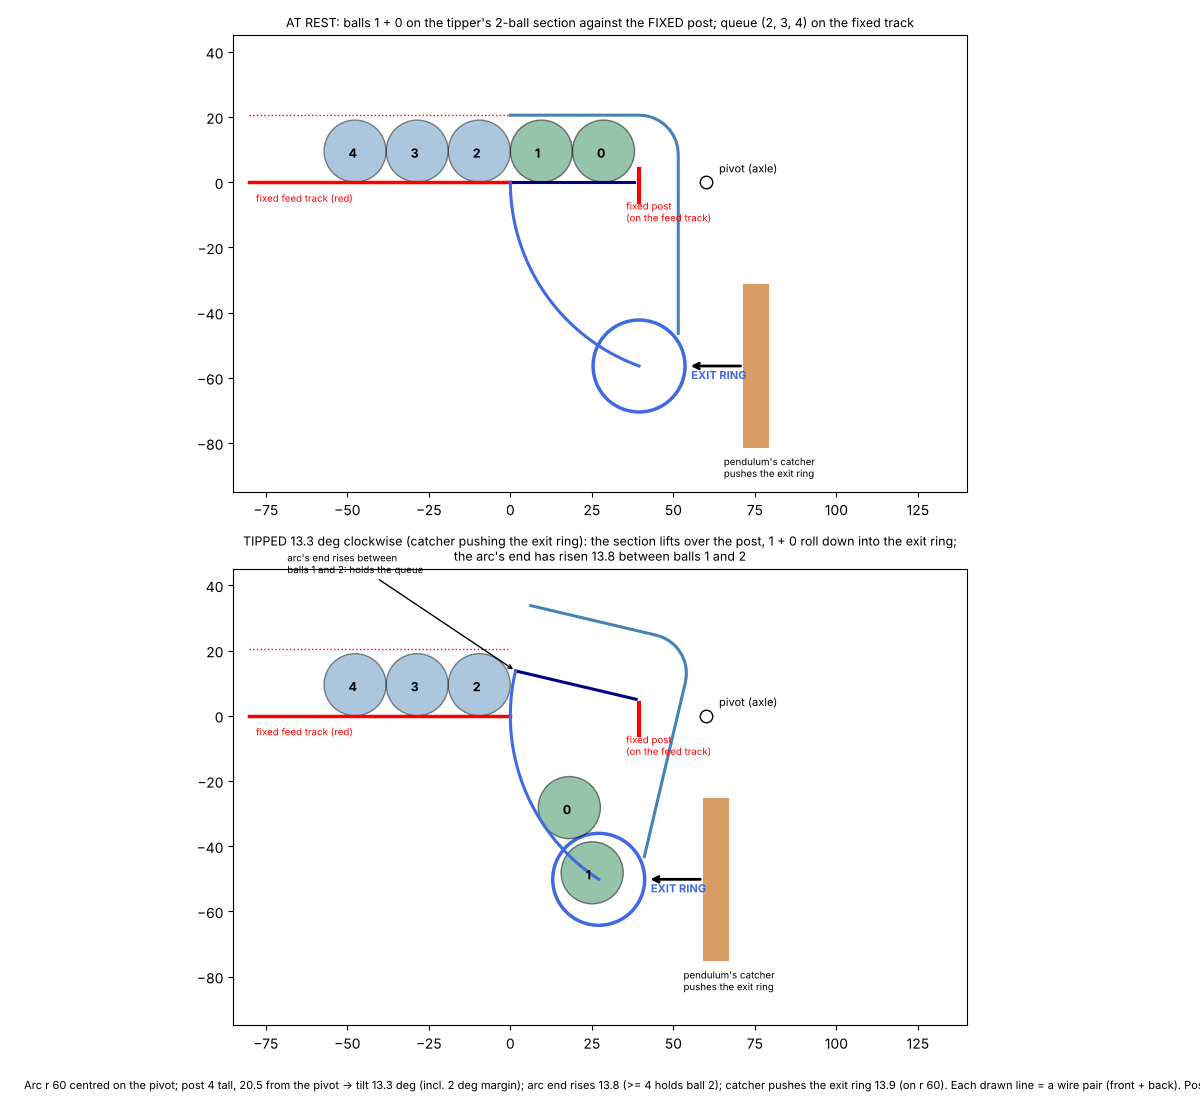
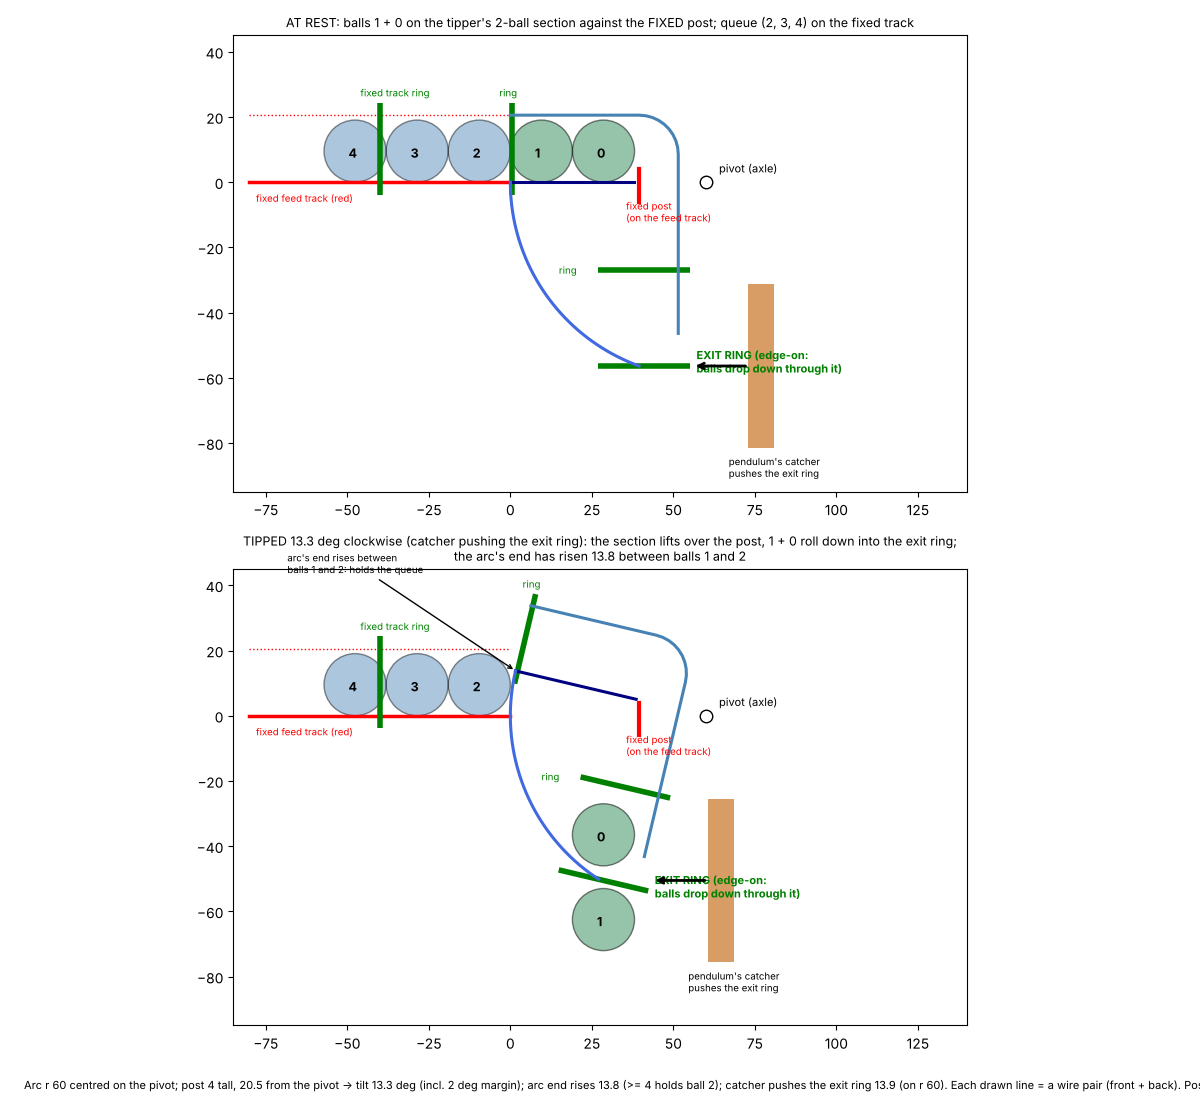
Tipper reference: retaining rings drawn edge-on in green (exit ring horizontal), ring on the descent
Claude-Session: https://claude.ai/code/session_01LQy87QnU21cWEAk5CN6jGY

diff --git a/marbles/clock/tipper_reference.py b/marbles/clock/tipper_reference.py
@@ -13,6 +13,8 @@ import matplotlib; matplotlib.use("Agg")
 import matplotlib.pyplot as plt  # noqa: E402
 
 D = 19.05; R = D / 2
+RING_OD = 28.2                    # retaining rings, seen edge-on from this side (a line RING_OD long, across the tube)
+AXIS_Z = R + 0.7                  # tube axis above the balls' bottoms (ball centre sits 0.7 below it)
 RA = 60.0                         # arc radius = pivot to the 2-ball section's upstream end
 P = (RA, 0.0)                     # pivot; the track floor (balls' bottoms) at z = 0 at rest, queue from the left
 POST_X, POST_H = 2 * D + 1.4, 4.0 # fixed post just in front of ball 0 (balls 1, 0 centred at R, R + D)
@@ -36,24 +38,39 @@ def tipper(th):
     xr = ex[0] + R + 2.5                                              # outer rail of the descent, left of the axle
     over = [(0, top_z), (xr - 12, top_z)] + [(xr - 12 + 12 * math.sin(math.radians(a)), top_z - 12 + 12 * math.cos(math.radians(a))) for a in range(0, 91, 10)]
     over += [(xr, ex[1] + 10)]
-    return [[rot(p, th) for p in floor], [rot(p, th) for p in arc], [rot(p, th) for p in over]], rot(ex, th)
+    # retaining rings on the tipper, edge-on: upstream end of the 2-ball section (vertical), at the overhead track's bend
+    # (45 deg), and the EXIT RING at the bottom of the descent (horizontal: the balls drop down through it)
+    h = RING_OD / 2
+    xd = xr - R - 1.0                                                 # descent tube axis
+    zm = (AXIS_Z + ex[1]) / 2 - 4                                     # a ring part way down the descent
+    rings = [((0.6, AXIS_Z - h), (0.6, AXIS_Z + h)),
+             ((xd - h, zm), (xd + h, zm)),
+             ((xd - h, ex[1]), (xd + h, ex[1]))]                     # exit ring: where the arc and the overhead track meet
+    exit_c = (xd, ex[1])
+    rr = [[rot(a, th), rot(b, th)] for a, b in rings]
+    return [[rot(p, th) for p in floor], [rot(p, th) for p in arc], [rot(p, th) for p in over]], rot(exit_c, th), rr
 
 
 def panel(ax, th, title, tripped):
     ax.plot([-80, 0], [0, 0], color="red", lw=2.5); ax.plot([-80, 0], [D + 1.5, D + 1.5], color="red", lw=1, ls=":")
     ax.text(-78, -6, "fixed feed track (red)", fontsize=7, color="red")
     ax.plot([POST_X, POST_X], [-6, POST_H], color="red", lw=3); ax.text(POST_X - 4, -12, "fixed post\n(on the feed track)", fontsize=7, color="red")
-    lines, ex = tipper(th)
+    lines, ex, rings = tipper(th)
+    for k, (a, b) in enumerate(rings):
+        ax.plot([a[0], b[0]], [a[1], b[1]], color="green", lw=4, solid_capstyle="butt")
+    ax.text(rings[0][1][0] - 4, rings[0][1][1] + 2, "ring", fontsize=7, color="green")
+    ax.text(rings[1][0][0] - 12, rings[1][0][1] - 1, "ring", fontsize=7, color="green")
+    ax.plot([-40, -40], [AXIS_Z - RING_OD / 2, AXIS_Z + RING_OD / 2], color="green", lw=4, solid_capstyle="butt")
+    ax.text(-46, AXIS_Z + RING_OD / 2 + 2, "fixed track ring", fontsize=7, color="green")
     for ln, col, lab in zip(lines, ("navy", "royalblue", "steelblue"), ("2-ball section floor", "arc r 60 (centred on the pivot)", "overhead track")):
         ax.plot(*zip(*ln), color=col, lw=2.2)
-    ax.add_patch(plt.Circle(ex, 14.1, fc="none", ec="royalblue", lw=2.5))
-    ax.text(ex[0] + 16, ex[1] - 4, "EXIT RING", fontsize=8, color="royalblue", weight="bold")
+    ax.text(rings[2][1][0] + 2, rings[2][1][1] - 2, "EXIT RING (edge-on:\nballs drop down through it)", fontsize=8, color="green", weight="bold")
     ax.plot(*P, "o", ms=9, mfc="w", mec="k"); ax.text(P[0] + 4, P[1] + 3, "pivot (axle)", fontsize=8)
     balls = [(-(k - 1) * D - R, R) for k in range(1, 4)]                             # 2, 3, 4 on the fixed track (touching ball 1)
     if tripped:
         e0 = rot((ex[0], ex[1]), 0)
         held = [rot((R, R), th), rot((R + D, R), th)]
-        held = [(ex[0] - 2, ex[1] + 2), (ex[0] - 9, ex[1] + 22)]                     # rolling down into the exit ring
+        held = [(ex[0], ex[1] - 12), (ex[0], ex[1] + 14)]                           # dropping down through the exit ring
     else:
         held = [(R, R), (R + D, R)]
     for (x, y), n in zip(held, (1, 0)):
